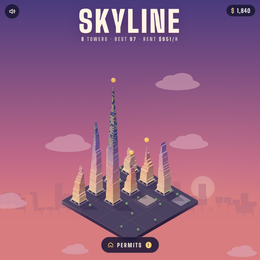
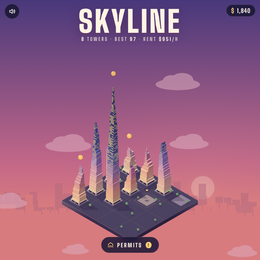
Skyline: critique rounds - eased camera flights, dusk fog, a day that fits a game
Four filmstrip rounds with a fresh critic each time. What changed because of them:
- Camera moves between screens are real tweens (ease-in-out, log-space zoom, a
  slight pull-back arc), and the sky hour eases too, so nothing cuts.
- The hour curve is compressed: dusk near floor 15, night near 35, so an ordinary
  tower shows the time-lapse. The city sits at dusk, where night tops glow.
- Neighbours sink into dark, greyed fog during a build; the finished tower stays
  out of it until the next build starts, fading in rather than popping.
- Perfect: white flash, ripples with a glow that multiply with the chain, a chain
  pill that grows; a cut clears the pill at once.
- Endings run on game time: slab falls, roof grows, then the card counts up;
  the cash chip holds until the card counts it in; the card shows your best.
- Roofs by height (tank, setback, crown, spire+beacon); lit rooms at city scale.
- A bobbing gold marker over the next lot; permits show progress to each price.

Claude-Session: https://claude.ai/code/session_01PtGPtYWtJF93bbE91X3kfa

diff --git a/games/skyline.html b/games/skyline.html
@@ -88,6 +88,7 @@ button:focus-visible{outline:2px solid var(--window);outline-offset:3px}
 #result .big{display:flex;align-items:baseline;gap:10px}
 #result .big b{font:900 76px/.8 'Big Shoulders Display',Impact,sans-serif;font-variant-numeric:tabular-nums}
 #result .big span{font:800 20px/1 'Big Shoulders Text',sans-serif;letter-spacing:.22em;text-transform:uppercase;color:rgba(255,244,228,.75)}
+#bestv{margin-left:auto;align-self:center;font:700 13px/1 'Big Shoulders Text',sans-serif;letter-spacing:.16em;text-transform:uppercase;font-style:normal;color:rgba(255,244,228,.65)}
 #record{margin-left:auto;align-self:center;font:800 12px/1 'Big Shoulders Text',sans-serif;letter-spacing:.18em;text-transform:uppercase;
   color:var(--ink);background:var(--window);border-radius:999px;padding:6px 10px 5px}
 .stats{display:grid;grid-template-columns:repeat(3,1fr);gap:8px;margin:16px 0}
@@ -104,17 +105,20 @@ button:focus-visible{outline:2px solid var(--window);outline-offset:3px}
 .btn.ghost svg{width:22px;height:22px;stroke:currentColor;fill:none;stroke-width:2;stroke-linecap:round;stroke-linejoin:round}
 
 #sheetback{position:absolute;inset:0;background:rgba(14,10,30,.35)}
-#permits{bottom:0;border-radius:24px 24px 0 0;padding-bottom:calc(var(--safe-b) + 16px);max-height:82vh;overflow:auto}
+#permits{bottom:0;border-radius:24px 24px 0 0;padding-bottom:calc(var(--safe-b) + 22px);max-height:86vh;overflow:auto;width:min(460px,100%)}
 #permits.card{bottom:0}
 #permits header{display:flex;align-items:baseline;justify-content:space-between;margin-bottom:6px}
 #permits h2{margin:0;font:900 34px/1 'Big Shoulders Display',sans-serif;letter-spacing:.06em;text-transform:uppercase}
 #permits header span{font:800 18px/1 'Big Shoulders Text',sans-serif;font-variant-numeric:tabular-nums}
 #permits header span i{font-style:normal;color:var(--window)}
+.grab{width:44px;height:5px;border-radius:3px;background:rgba(255,244,228,.28);margin:-8px auto 12px}
+.perm button{position:relative;overflow:hidden}
+.perm button i{position:absolute;left:0;bottom:0;height:4px;background:var(--window);border-radius:0 2px 2px 0;transition:width .4s ease}
 .perm{display:grid;grid-template-columns:44px 1fr auto;gap:12px;align-items:center;padding:12px 0;border-top:1px solid var(--line)}
 .perm svg{width:44px;height:44px}
 .perm h3{margin:0;font:800 18px/1.1 'Big Shoulders Text',sans-serif;letter-spacing:.06em;text-transform:uppercase}
 .perm p{margin:3px 0 6px;font:500 14px/1.25 'Big Shoulders Text',sans-serif;color:rgba(255,244,228,.72)}
-.pips{display:flex;gap:4px}.pips i{width:14px;height:4px;border-radius:2px;background:rgba(255,244,228,.18)}.pips i.on{background:var(--window)}
+.pips{display:flex;gap:4px}.pips i{width:14px;height:4px;border-radius:2px;background:rgba(255,244,228,.34)}.pips i.on{background:var(--window)}
 .perm button{min-width:84px;height:44px;border-radius:12px;background:var(--cream);color:var(--ink);
   font:800 17px/1 'Big Shoulders Text',sans-serif;letter-spacing:.06em;font-variant-numeric:tabular-nums;transition:transform .12s}
 .perm button:active{transform:scale(.95)}
@@ -133,7 +137,7 @@ button:focus-visible{outline:2px solid var(--window);outline-offset:3px}
 #pause .row{margin-top:22px;justify-content:center}
 #pause .btn{flex:0 0 auto;padding:0 26px}
 
-@media (max-width:520px){#title{top:calc(var(--safe-t) + 66px)}#toast{top:calc(var(--safe-t) + 190px)}}
+@media (max-width:520px){#title{top:calc(var(--safe-t) + 66px)}#title p{font-size:16px;letter-spacing:.14em}#toast{top:calc(var(--safe-t) + 190px)}}
 @media (prefers-reduced-motion:reduce){
   #floor.bump,#cta span{animation:none}
   .fade{transition:opacity .2s}
@@ -159,7 +163,7 @@ button:focus-visible{outline:2px solid var(--window);outline-offset:3px}
   <div id="toast" class="chip fade hide"></div>
 
   <div id="result" class="card fade hide" role="dialog" aria-label="Tower finished">
-    <div class="big"><b id="rfloors">0</b><span id="rlabel">floors</span><em id="record" class="hide">New record</em></div>
+    <div class="big"><b id="rfloors">0</b><span id="rlabel">floors</span><em id="record" class="hide">New record</em><em id="bestv" class="hide"></em></div>
     <div class="stats">
       <div><small>Perfect drops</small><b id="rperf">0</b></div>
       <div><small>Longest chain</small><b id="rchain">0</b></div>
@@ -173,6 +177,7 @@ button:focus-visible{outline:2px solid var(--window);outline-offset:3px}
 
   <div id="sheetback" class="fade hide"></div>
   <div id="permits" class="card fade hide" role="dialog" aria-label="Permits">
+    <div class="grab" aria-hidden="true"></div>
     <header><h2>Permits</h2><span><i>$</i><span id="pcash">0</span></span></header>
     <div id="permlist"></div>
   </div>
@@ -335,10 +340,10 @@ function ramp(stops, v) {
   return stops[stops.length - 1][1];
 }
 // glass reflects the hour its floor was built in
-const GLASS = [[0, '#f2b874'], [12, '#ec8f6a'], [26, '#c9628a'], [40, '#7d55a8'], [56, '#33438f'], [100, '#1c2766']].map(([n, h]) => [n, hex(h)]);
-const SKY_TOP = [[0, '#86a6d4'], [28, '#463478'], [58, '#0a0e2a']].map(([n, h]) => [n, hex(h)]);
-const SKY_MID = [[0, '#f4c79a'], [28, '#c06488'], [58, '#1f1f52']].map(([n, h]) => [n, hex(h)]);
-const SKY_LOW = [[0, '#f6a477'], [28, '#f39274'], [58, '#3e3170']].map(([n, h]) => [n, hex(h)]);
+const GLASS = [[0, '#f2b874'], [8, '#ec8f6a'], [17, '#c9628a'], [27, '#7d55a8'], [38, '#33438f'], [80, '#1c2766']].map(([n, h]) => [n, hex(h)]);
+const SKY_TOP = [[0, '#86a6d4'], [17, '#463478'], [40, '#0a0e2a']].map(([n, h]) => [n, hex(h)]);
+const SKY_MID = [[0, '#f4c79a'], [17, '#c06488'], [40, '#1f1f52']].map(([n, h]) => [n, hex(h)]);
+const SKY_LOW = [[0, '#f6a477'], [17, '#f39274'], [40, '#3e3170']].map(([n, h]) => [n, hex(h)]);
 const WARM = hex('#ffe6c4'), SHADE = hex('#2a1f4a'), WIN = hex('#ffd27a'), WHITE = [255, 255, 255];
 const floorPal = [];
 const hazePal = new Map();
@@ -357,8 +362,8 @@ function pal(n, hz = 0, tint = 0) {
   return v;
 }
 function makePal(n, hz, tint) {
-  let g = ramp(GLASS, n); const night = smooth(34, 60, n) * (1 - hz);
-  if (TINTS[tint]) g = mix(g, TINTS[tint], .2 * (1 - smooth(30, 60, n) * .6));
+  let g = ramp(GLASS, n); const night = smooth(22, 40, n) * (1 - hz);
+  if (TINTS[tint]) g = mix(g, TINTS[tint], .2 * (1 - smooth(20, 40, n) * .6));
   const left = mix(g, WARM, 0.32 * (1 - night) + 0.06);
   const right = mix(g, SHADE, 0.38);
   const top = mix(g, WHITE, 0.42 - 0.2 * night);
@@ -517,7 +522,7 @@ function aimCamera(snap) {
     camT.s = buildScale();
     camT.x = runPlot.x; camT.z = runPlot.z;
     camT.y = top + 30;
-    camT.ay = 0.6;
+    camT.ay = 0.56;
   } else if (mode === 'result') {
     const top = towerTop(run.floors.length);
     camT.x = runPlot.x; camT.z = runPlot.z;
@@ -788,17 +793,17 @@ function drawTree(t) {
 
 /* ---------------- sky ---------------- */
 function skyHour() { // hour of the sky, in floors
-  if (mode === 'city' || mode === 'permits') return 24;
+  if (mode === 'city' || mode === 'permits') return 15;
   return Math.max(0, (cam.y - C.PLINTH) / C.SLAB);
 }
-let cloudDrift = 0, skyHr = 24;
+let cloudDrift = 0, skyHr = 15;
 function drawSky(hr) {
   const top = ramp(SKY_TOP, hr), midc = ramp(SKY_MID, hr), low = ramp(SKY_LOW, hr);
   const g = ctx.createLinearGradient(0, 0, 0, H);
   g.addColorStop(0, rgb(top)); g.addColorStop(.62, rgb(midc)); g.addColorStop(1, rgb(low));
   ctx.fillStyle = g; ctx.fillRect(0, 0, W, H);
   // stars: fixed to the sky, not the camera
-  const st = smooth(36, 60, hr);
+  const st = smooth(24, 40, hr);
   if (st > 0) {
     const cell = 46;
     for (let gy = 0; gy * cell < H * .8; gy++) for (let gx = 0; gx * cell < W; gx++) {
@@ -811,9 +816,9 @@ function drawSky(hr) {
     }
   }
   // a low sun at golden hour, fixed to the sky
-  const sunA = 1 - smooth(8, 32, hr);
+  const sunA = 1 - smooth(5, 20, hr);
   if (sunA > 0) {
-    const sx = W * .78, sy = H * .30 + smooth(0, 32, hr) * H * .5;
+    const sx = W * .78, sy = H * .30 + smooth(0, 20, hr) * H * .5;
     const sg = ctx.createRadialGradient(sx, sy, 0, sx, sy, Math.max(W, H) * .5);
     sg.addColorStop(0, `rgba(255,236,190,${.55 * sunA})`); sg.addColorStop(.12, `rgba(255,214,150,${.22 * sunA})`); sg.addColorStop(1, 'rgba(255,200,140,0)');
     ctx.fillStyle = sg; ctx.fillRect(0, 0, W, H);
@@ -839,8 +844,8 @@ function drawSky(hr) {
     }
   }
   // clouds: a mid layer that moves at a third of the camera
-  const cloudA = 1 - .55 * smooth(36, 60, hr);
-  const cc = mix(mix(midc, WHITE, .45), top, smooth(28, 60, hr) * .7);
+  const cloudA = 1 - .55 * smooth(24, 40, hr);
+  const cc = mix(mix(midc, WHITE, .45), top, smooth(18, 40, hr) * .7);
   const csz = 170, layerY = (cam.y * cam.s) * .33;
   const rowsTop = Math.floor((-layerY - csz) / csz), rowsBot = Math.ceil((H - layerY + csz) / csz);
   ctx.fillStyle = rgb(cc, .55 * cloudA);
@@ -880,8 +885,10 @@ function drawRings(dt) {
       ctx.fillStyle = `rgba(255,255,255,${a})`;
       quad(r.X - fw, r.y, r.Z - fd, r.X + fw, r.y, r.Z - fd, r.X + fw, r.y, r.Z + fd, r.X - fw, r.y, r.Z + fd); ctx.fill();
     }
-    ctx.strokeStyle = `rgba(255,255,255,${(1 - r.t) * .95})`; ctx.lineWidth = Math.max(2.5, cam.s * 4.5 * (1 - r.t * .6));
-    quad(r.X - hw, r.y, r.Z - hd, r.X + hw, r.y, r.Z - hd, r.X + hw, r.y, r.Z + hd, r.X - hw, r.y, r.Z + hd); ctx.stroke();
+    quad(r.X - hw, r.y, r.Z - hd, r.X + hw, r.y, r.Z - hd, r.X + hw, r.y, r.Z + hd, r.X - hw, r.y, r.Z + hd);
+    ctx.lineJoin = 'round';
+    ctx.strokeStyle = `rgba(255,236,190,${(1 - r.t) * .35})`; ctx.lineWidth = Math.max(8, cam.s * 14 * (1 - r.t * .5)); ctx.stroke();
+    ctx.strokeStyle = `rgba(255,255,255,${(1 - r.t) * .95})`; ctx.lineWidth = Math.max(2.5, cam.s * 4.5 * (1 - r.t * .6)); ctx.stroke();
   }
 }
 function spawnDebris(X, Z, f, y, n, off, axis, whole) {
@@ -953,7 +960,7 @@ function drawFloats(dt) {
     if (f.t > 1) { floats.splice(i, 1); continue; }
     P(f.X, f.y, f.Z);
     const e = 1 - Math.pow(1 - f.t, 3);
-    const sz = Math.round(22 + 6 * (1 - e)), a = 1 - f.t * f.t;
+    const sz = Math.round(28 + 6 * (1 - e)), a = 1 - f.t * f.t;
     const x = px - sz * .7, y = py - 26 - e * 40;
     ctx.globalAlpha = a;
     ctx.font = `900 ${sz}px 'Big Shoulders Display', Impact, sans-serif`;
@@ -1046,6 +1053,7 @@ function doDrop() {
     chip.classList.remove('on'); void chip.offsetWidth; chip.classList.add('on');
     if (r.grew) { Sound.grow(); addSparks(runPlot.x + r.placed.x, runPlot.z + r.placed.z, r.placed, y + C.SLAB); }
   } else {
+    $('chain').classList.remove('on');
     spawnDebris(runPlot.x, runPlot.z, r.debris, y, n, r.off, m.axis, false);
     Sound.cut();
     if (!reduced.matches) shake = 2.5;
@@ -1073,6 +1081,8 @@ function endRun() {
   $('rchain').textContent = String(run.bestStreak);
   $('rearn').textContent = '$0';
   $('record').classList.toggle('hide', !record);
+  $('bestv').textContent = `Best ${save.best}`;
+  $('bestv').classList.toggle('hide', record || save.runs < 2);
   countUp = {t: 0, to: run.earned};
   cashShown = save.money - run.earned;
   setMode('result');
@@ -1127,13 +1137,14 @@ function renderPermits() {
     list.innerHTML = C.UPGRADES.map(u => `<div class="perm" data-id="${u.id}"><svg viewBox="0 0 44 44" fill="none" stroke-width="2" stroke-linecap="round" stroke-linejoin="round">${ICONS[u.id]}</svg>
       <div><h3>${PERM_TEXT[u.id][0]}</h3><p></p><div class="pips">${'<i></i>'.repeat(u.max)}</div></div><button></button></div>`).join('');
     list.querySelectorAll('.perm button').forEach(b => b.addEventListener('click', e => { e.stopPropagation(); buy(b.parentElement.dataset.id); }));
+    $('permits').querySelector('.grab').addEventListener('click', () => setMode('city'));
   }
   for (const u of C.UPGRADES) {
     const row = list.querySelector(`[data-id="${u.id}"]`), L = save.up[u.id], c = C.cost(u.id, L);
     row.querySelector('p').textContent = L >= u.max ? 'Fully permitted' : PERM_TEXT[u.id][1](L);
     row.querySelectorAll('.pips i').forEach((p, i) => p.classList.toggle('on', i < L));
     const b = row.querySelector('button');
-    b.textContent = L >= u.max ? 'Max' : '$' + fmt(c);
+    b.innerHTML = (L >= u.max ? 'Max' : '$' + fmt(c)) + (L < u.max && c > save.money ? `<i style="width:${Math.max(4, 100 * save.money / c).toFixed(1)}%"></i>` : '');
     b.disabled = !(c <= save.money);
   }
 }
@@ -1222,7 +1233,7 @@ function tick(dt) {
     for (let n = 0; n < settle.length; n++) if (settle[n]) { settle[n] *= Math.exp(-dt * 14); if (Math.abs(settle[n]) < .05) settle[n] = 0; }
     updateDebris(dt);
     cloudDrift += dt * 6;
-    const hzT = (mode === 'intro' || mode === 'build' || mode === 'fall') ? .86 : mode === 'result' ? .55 : 0;
+    const hzT = (mode === 'intro' || mode === 'build' || mode === 'fall') ? .86 : mode === 'result' ? .8 : 0;
     hazeAmt += (hzT - hazeAmt) * (1 - Math.exp(-dt * 4));
     if (mode !== 'result' && mode !== 'city' && mode !== 'permits') lastFade += (1 - lastFade) * (1 - Math.exp(-dt * 3));
     boardRing += (boardRingTarget - boardRing) * (1 - Math.exp(-dt * 3));
@@ -1247,7 +1258,7 @@ function tick(dt) {
 function render(dt) {
   ctx.setTransform(DPR, 0, 0, DPR, 0, 0);
   const hr = skyHr += (skyHour() - skyHr) * (1 - Math.exp(-Math.min(dt, .05) * 3)); // the sky never jumps between screens
-  hazeCol = mix(mix(ramp(SKY_TOP, hr), ramp(SKY_MID, hr), .3), SHADE, .12); hazeKey = Math.round(hr / 3) & 127;
+  { const f = mix(mix(ramp(SKY_TOP, hr), ramp(SKY_MID, hr), .3), SHADE, .2 + .3 * smooth(6, 26, hr)); const g = (f[0] + f[1] + f[2]) / 3; hazeCol = mix(f, [g, g, g * 1.08], .35); } hazeKey = Math.round(hr / 3) & 127;
   drawSky(hr);
   ctx.save();
   if (shake > .05) ctx.translate((Math.random() - .5) * shake, (Math.random() - .5) * shake);
@@ -1283,6 +1294,14 @@ function render(dt) {
   }
   if (!debrisDrawn) debris.forEach(drawDebris);
   drawFloats(dt);
+  if (mode === 'city' || mode === 'permits') { // the next lot: a gold chevron bobbing above it, never hidden by towers
+    const q = C.plotPos(save.towers.length), b = reduced.matches ? 0 : Math.sin(perfNow * .004) * 5;
+    P(q.x, 6, q.z);
+    const x = px, y = py - 26 + b, k = Math.max(7, Math.min(13, cam.s * 30));
+    ctx.fillStyle = 'rgba(30,18,50,.35)'; ctx.beginPath(); ctx.ellipse(x, py + 2, k * .9, k * .35, 0, 0, 7); ctx.fill();
+    ctx.fillStyle = '#ffd27a'; ctx.strokeStyle = '#2a1f4a'; ctx.lineWidth = 2; ctx.lineJoin = 'round';
+    ctx.beginPath(); ctx.moveTo(x - k, y - k * 1.1); ctx.lineTo(x + k, y - k * 1.1); ctx.lineTo(x, y); ctx.closePath(); ctx.fill(); ctx.stroke();
+  }
   cityCoins(dt);
   drawHint();
   ctx.restore();
@@ -1291,7 +1310,7 @@ function render(dt) {
     const q = C.plotPos(save.towers.length);
     P(q.x, 40, q.z);
     const el = $('cta');
-    el.style.left = px.toFixed(1) + 'px'; el.style.top = Math.max(150, py - 6).toFixed(1) + 'px';
+    el.style.left = px.toFixed(1) + 'px'; el.style.top = Math.max(150, py - 40).toFixed(1) + 'px';
   }
 }
 
